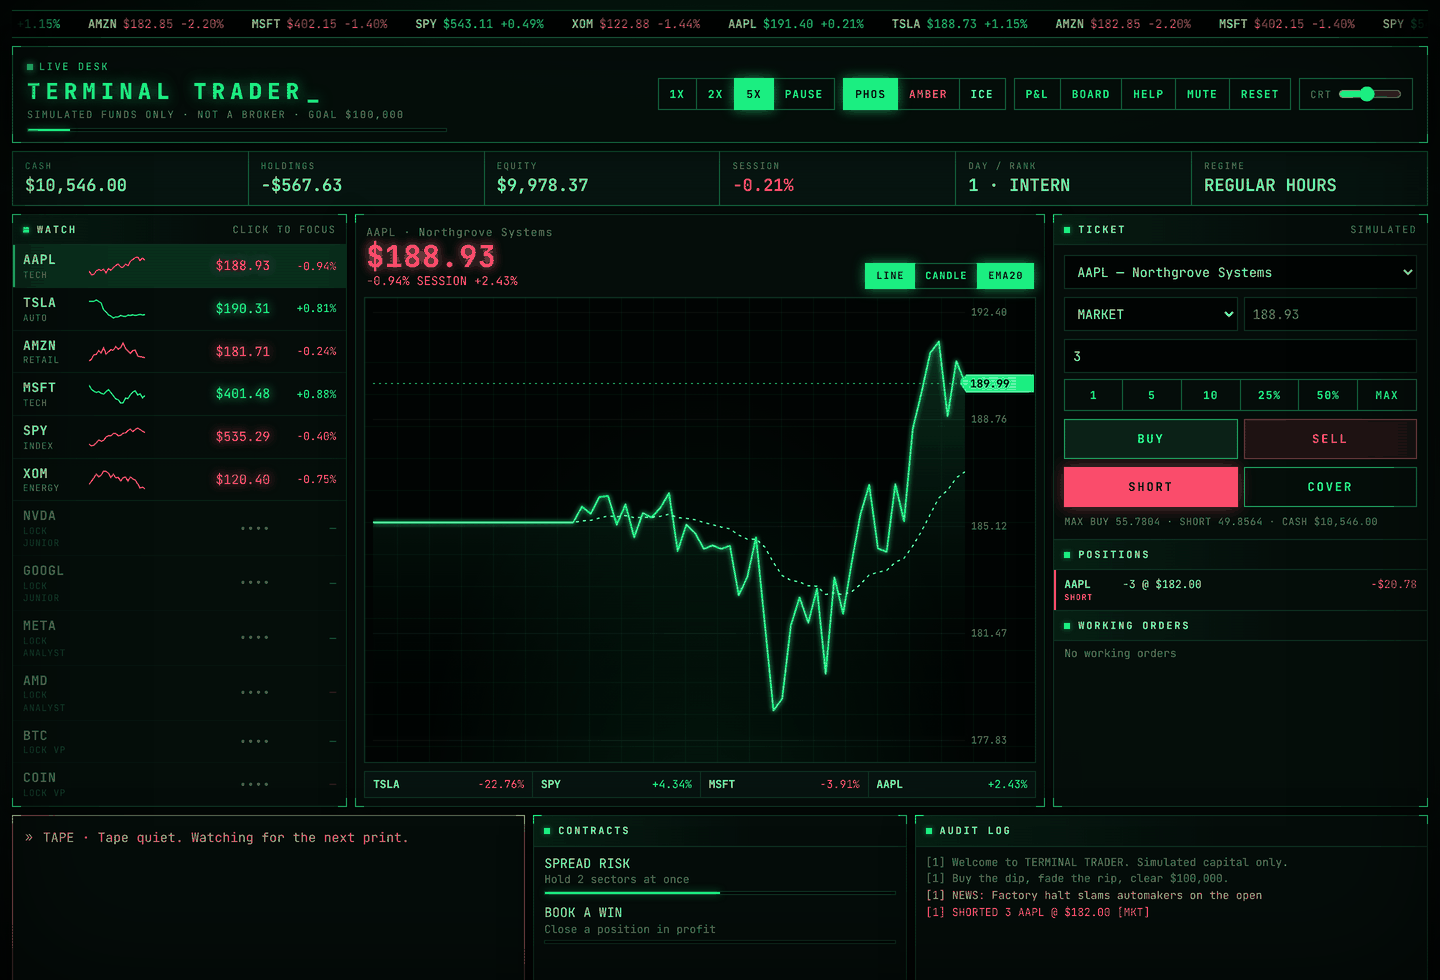
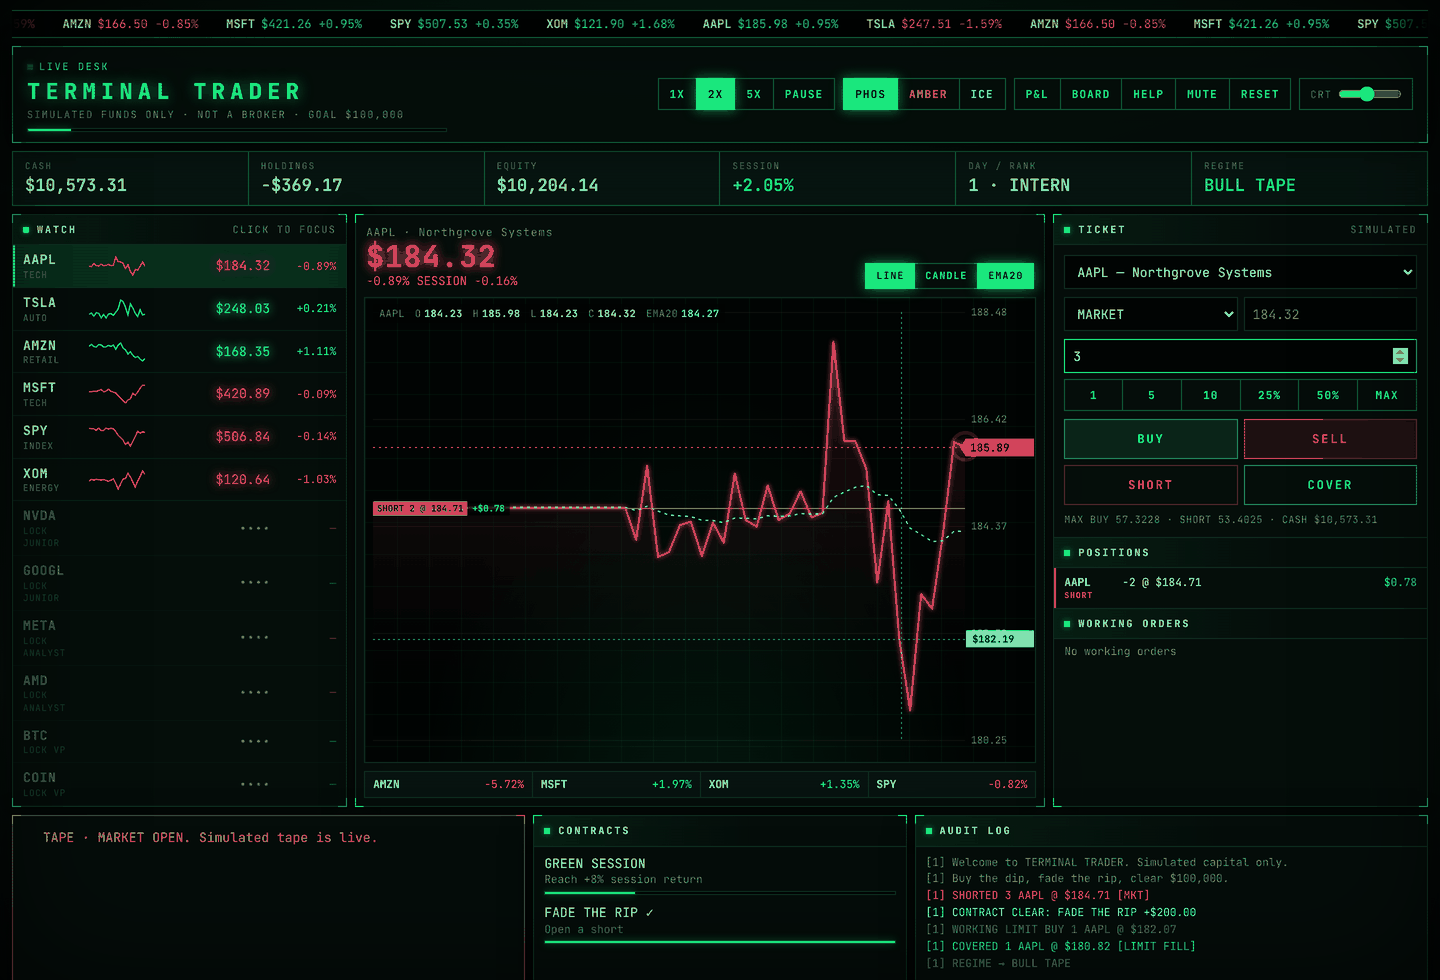
Ground the desk in shipped trading UIs: pinned trade bar, entry lines
Design recon across Mobbin (8 mobile brokers, 5 web terminals):
- Phone pins BUY / SELL / SHORT / COVER to the bottom with a
  symbol, qty, order type and live P&L line; same buttons, same ids
- Chart draws the open position's entry line with live P&L and a
  dashed line per working order; off-range levels pin to the edge
- O/H/L/C + EMA20 readout top-left; crosshair tag on the price axis
- Skipped edge-to-edge phone chart and Buy/Sell tabs (see HANDOFF)

Claude-Session: https://claude.ai/code/session_01RA62598oLhq1RE84UV7Pot

diff --git a/src/ui.js b/src/ui.js
@@ -299,6 +299,8 @@
       ctx.font = '11px ui-monospace, monospace';
       ctx.fillText(stock.unlocked ? 'WAITING FOR PRINTS…' : 'SYMBOL LOCKED', 16, 28);
       dot.style.display = 'none';
+      $('chartLegend').innerHTML = '';
+      view.legend = '';
       view.settled = true;
       chartDirty = false;
       return;
@@ -452,6 +454,59 @@
     }
     ctx.restore();
 
+    // Entry + working-order lines: price under your short's line reads as winning at a glance.
+    const levels = [];
+    if (stock.holding && stock.avg) {
+      const pnl = stock.unrealizedCents / 100;
+      levels.push({
+        price: stock.avg,
+        color: style.getPropertyValue('--amber').trim() || '#ffc14a',
+        label: (stock.side === 'short' ? 'SHORT ' : 'LONG ') + String(Math.abs(stock.holding)) + ' @ ' + stock.avg.toFixed(2),
+        tail: (pnl >= 0 ? '+' : '') + money(pnl),
+        tailColor: pnl >= 0 ? up : down
+      });
+    }
+    state.orders.forEach((o) => {
+      if (o.symbol !== stock.symbol) return;
+      levels.push({
+        price: o.price,
+        color: o.side === 'buy' ? up : down,
+        label: o.type.toUpperCase() + ' ' + o.side.toUpperCase() + ' ' + o.qty,
+        dash: [6, 3]
+      });
+    });
+    levels.forEach((lv) => {
+      const raw = yOf(lv.price);
+      const off = raw < pad.t ? -1 : raw > h - pad.b ? 1 : 0;
+      const y = Math.round(clamp(raw, pad.t + 8, h - pad.b - 8)) + 0.5;
+      ctx.strokeStyle = lv.color;
+      ctx.globalAlpha = off ? 0.35 : 0.85;
+      ctx.setLineDash(lv.dash || [1, 0]);
+      ctx.lineWidth = 1;
+      if (!off) {
+        ctx.beginPath();
+        ctx.moveTo(pad.l, y);
+        ctx.lineTo(w - pad.r, y);
+        ctx.stroke();
+      }
+      ctx.setLineDash([]);
+      ctx.globalAlpha = 1;
+      ctx.font = '700 9px ' + font;
+      const text = (off < 0 ? '▲ ' : off > 0 ? '▼ ' : '') + lv.label;
+      const tw = ctx.measureText(text).width;
+      const tailW = lv.tail ? ctx.measureText(lv.tail).width + 10 : 0;
+      ctx.fillStyle = lv.color;
+      ctx.fillRect(pad.l, y - 7, tw + 8, 14);
+      ctx.fillStyle = style.getPropertyValue('--bg').trim() || '#04110b';
+      ctx.fillText(text, pad.l + 4, y + 3);
+      if (lv.tail) {
+        ctx.fillStyle = 'rgba(0,0,0,0.75)';
+        ctx.fillRect(pad.l + tw + 8, y - 7, tailW, 14);
+        ctx.fillStyle = lv.tailColor;
+        ctx.fillText(lv.tail, pad.l + tw + 13, y + 3);
+      }
+    });
+
     const shownPx = candleMode ? last : shownLast;
     const ly = Math.round(yOf(shownPx)) + 0.5;
     ctx.setLineDash([2, 4]);
@@ -473,6 +528,19 @@
     ctx.fillStyle = style.getPropertyValue('--bg').trim() || '#04110b';
     ctx.font = '700 11px ' + font;
     ctx.fillText(shownPx.toFixed(2), w - pad.r + 5, ly + 4);
+
+    const lc = stock.liveCandle;
+    const emaLast = stock.ema && stock.ema.length ? stock.ema[stock.ema.length - 1] : null;
+    const legend =
+      '<span>' + stock.symbol + '</span>' +
+      (lc
+        ? '<span>O<b>' + lc.o.toFixed(2) + '</b></span><span>H<b>' + lc.h.toFixed(2) + '</b></span><span>L<b>' + lc.l.toFixed(2) + '</b></span><span>C<b>' + lc.c.toFixed(2) + '</b></span>'
+        : '') +
+      (showEma && emaLast != null ? '<span class="ema">EMA20<b>' + emaLast.toFixed(2) + '</b></span>' : '');
+    if (view.legend !== legend) {
+      $('chartLegend').innerHTML = legend;
+      view.legend = legend;
+    }
 
     if (!candleMode) {
       dot.style.display = 'block';
@@ -500,7 +568,8 @@
         ctx.setLineDash([]);
         ctx.globalAlpha = 1;
         tag.style.display = 'block';
-        tag.style.left = Math.min(x + 8, w - pad.r - 80) + 'px';
+        tag.style.left = w - pad.r + 1 + 'px';
+        tag.style.width = pad.r - 2 + 'px';
         tag.style.top = yOf(px) + 'px';
         tag.textContent = money(px);
       }
@@ -693,6 +762,9 @@
     $('sellBtn').disabled = !s.unlocked || closed || (maxSell <= 0 && maxShort <= 0);
     $('shortBtn').disabled = !s.unlocked || closed || maxShort <= 0 || (pos && pos.qty > 0);
     $('coverBtn').disabled = !s.unlocked || closed || maxCover + 1e-9 < (qty > 0 ? Math.min(qty, maxCover) : 0.0001) || maxCover <= 0;
+    $('barMeta').innerHTML = s.unlocked
+      ? '<span><b>' + s.symbol + '</b> ' + money(s.price) + '</span><span>QTY <b>' + (qty || 0) + '</b> · ' + $('orderType').value.toUpperCase() + (pos ? ' · <b class="' + clsDelta(pos.unrealizedCents) + '">' + money(pos.unrealizedCents / 100) + '</b>' : '') + '</span>'
+      : '<span>' + s.symbol + ' LOCKED</span>';
     const needLimit = $('orderType').value !== 'market';
     $('limitPx').disabled = !needLimit;
     if (!needLimit) $('limitPx').value = s.price.toFixed(2);
@@ -703,7 +775,7 @@
       if (ev.type === 'fill') {
         if (ev.side === 'buy') audio.buy();
         else audio.sell();
-        const rect = $('ticket').getBoundingClientRect();
+        const rect = $('tradeBar').getBoundingClientRect();
         burst(rect.left + rect.width / 2, rect.top + 20, ev.side === 'buy' || (ev.side === 'sell' && ev.price));
         const label = ev.openedShort
           ? 'FILL SHORT '

diff --git a/css/desk.css b/css/desk.css
@@ -508,6 +508,25 @@ body.is-paused .live i { animation: none; opacity: 0.35; }
 
 #chart { position: absolute; inset: 0; width: 100%; height: 100%; display: block; }
 
+.chart-legend {
+  position: absolute;
+  top: 6px;
+  left: 8px;
+  z-index: 1;
+  display: flex;
+  flex-wrap: wrap;
+  gap: 2px 10px;
+  max-width: calc(100% - 90px);
+  padding: 3px 6px;
+  font-size: 10px;
+  letter-spacing: 0.04em;
+  color: var(--muted);
+  background: color-mix(in srgb, var(--well) 78%, transparent);
+  pointer-events: none;
+}
+.chart-legend b { color: var(--text); font-weight: 600; margin-left: 3px; }
+.chart-legend .ema b { color: var(--cyan); }
+
 .last-dot {
   position: absolute;
   left: 0;
@@ -594,6 +613,8 @@ body.is-paused .last-dot::after { animation: none; opacity: 0; }
 .qty-row input { grid-column: 1 / -1; margin-bottom: 6px; }
 .qty-row button { padding: 0 4px; }
 .qty-row button + button { margin-left: -1px; }
+.trade-bar { display: flex; flex-direction: column; gap: 6px; }
+.bar-meta { display: none; }
 .side-row > button { flex: 1 1 40%; min-height: 40px; font-size: 12px; letter-spacing: 0.16em; }
 
 .buy-btn, .cover-btn { border-color: color-mix(in srgb, var(--up) 60%, transparent) !important; color: var(--up) !important; }
@@ -900,6 +921,39 @@ button:disabled { opacity: 0.35; cursor: not-allowed; }
   .mover { min-width: 76px; }
 
   .ticket { padding: 8px; }
+  /* every mobile broker pins the trade actions; all four stay, shorting is the game */
+  .desk { padding-bottom: calc(96px + env(safe-area-inset-bottom)); }
+  .trade-bar {
+    position: fixed;
+    left: 0;
+    right: 0;
+    bottom: 0;
+    z-index: 35;
+    display: grid;
+    grid-template-columns: repeat(4, 1fr);
+    gap: 6px;
+    padding: 6px 8px calc(8px + env(safe-area-inset-bottom));
+    background: var(--panel-2);
+    border-top: 1px solid var(--edge);
+    box-shadow: 0 -10px 24px rgba(0, 0, 0, 0.55);
+    -webkit-backdrop-filter: blur(6px);
+            backdrop-filter: blur(6px);
+  }
+  .trade-bar .side-row { display: contents; }
+  .trade-bar .side-row > button { min-height: 46px; padding: 0; font-size: 11px; letter-spacing: 0.1em; }
+  .bar-meta {
+    display: flex;
+    justify-content: space-between;
+    gap: 8px;
+    grid-column: 1 / -1;
+    font-size: 10px;
+    letter-spacing: 0.08em;
+    color: var(--muted);
+    white-space: nowrap;
+    overflow: hidden;
+  }
+  .bar-meta b { color: var(--text); font-weight: 600; }
+  .chart-legend { font-size: 9px; gap: 0 8px; }
   /* 16px stops iOS from zooming into the inputs */
   .ticket select, .ticket input { font-size: 16px; min-height: 40px; }
   .qty-row button { min-height: 38px; }

diff --git a/index.html b/index.html
@@ -80,6 +80,7 @@
       </div>
       <div id="chart-wrap">
         <canvas id="chart"></canvas>
+        <div class="chart-legend" id="chartLegend"></div>
         <i class="last-dot" id="lastDot"></i>
         <div class="crosshair" id="crosshair"></div>
       </div>
@@ -107,13 +108,16 @@
           <button data-qty="0.5">50%</button>
           <button data-qty="max">MAX</button>
         </div>
-        <div class="side-row">
-          <button class="buy-btn" id="buyBtn">BUY</button>
-          <button class="sell-btn" id="sellBtn">SELL</button>
-        </div>
-        <div class="side-row">
-          <button class="short-btn" id="shortBtn">SHORT</button>
-          <button class="cover-btn" id="coverBtn">COVER</button>
+        <div class="trade-bar" id="tradeBar">
+          <div class="bar-meta" id="barMeta"></div>
+          <div class="side-row">
+            <button class="buy-btn" id="buyBtn">BUY</button>
+            <button class="sell-btn" id="sellBtn">SELL</button>
+          </div>
+          <div class="side-row">
+            <button class="short-btn" id="shortBtn">SHORT</button>
+            <button class="cover-btn" id="coverBtn">COVER</button>
+          </div>
         </div>
         <div class="hint" id="maxBuy">MAX 0</div>
       </div>

diff --git a/tests/html.test.js b/tests/html.test.js
@@ -58,6 +58,11 @@ test('desk polish: phone layout, reduced motion, and eased chart stay wired', ()
   const ui = fs.readFileSync(path.join(root, 'src/ui.js'), 'utf8');
   assert.match(html, /name="viewport"[^>]*width=device-width/);
   assert.match(html, /id="lastDot"/);
+  assert.match(html, /id="tradeBar"[\s\S]*id="buyBtn"[\s\S]*id="shortBtn"[\s\S]*id="coverBtn"/);
+  assert.match(html, /id="chartLegend"/);
+  assert.match(css, /\.trade-bar \{\s*position: fixed;/);
+  assert.match(ui, /stock\.avg/);
+  assert.match(ui, /state\.orders\.forEach/);
   assert.match(css, /@media \(max-width: 640px\)/);
   assert.match(css, /prefers-reduced-motion: reduce/);
   assert.match(css, /@media \(hover: hover\)/);

diff --git a/docs/HANDOFF.md b/docs/HANDOFF.md
@@ -8,6 +8,11 @@ Still **2D**. No deploy. No engine changes; shorting, EMA20 and the session P&L 
 - **Smooth chart motion** — each new print glides in over most of the tick interval (the line slides one slot left as the ring buffer rolls), the y-range widens fast and tightens slowly so prints never leave the frame, and a pulsing DOM dot marks the last price. Redraws only while a glide or range ease is in flight (`noteTick` / `chartAnimating` in `src/ui.js`). Respects `prefers-reduced-motion`.
 - **Phone layout** — at ≤640px the controls become one swipeable strip, stats go 3×2, chart then ticket come before the watch list, 16px inputs (no iOS zoom), larger tap targets, toasts drop from the top, hover styles gated behind `(hover: hover)`.
 - **Fixes** — `.news` panel styles leaked onto `.log-entry.news` rows (indented, padded log lines); negative money rendered as `$-12.34` (now `-$12.34`); the FLAT placeholder wrapped inside the positions grid; watch flashes tinted whole rows at 5× (now a price-text pulse).
+- **Design-recon follow-up** (Mobbin research: Fidelity, Stake, Revolut, Wealthsimple, Vivid, Lightyear, Wealthfront, QuestMobile on iOS; Gemini, Binance, OKX, Coinbase, Kraken on web):
+  - Phone pins BUY / SELL / SHORT / COVER to the bottom with a symbol · qty · type · P&L line (every mobile broker sampled pins trade actions; we keep all four because shorting is core).
+  - Chart draws your entry line (LONG/SHORT qty @ avg with live P&L) and a dashed line per working order; off-range levels pin to the edge with ▲/▼. This covers the "trade markers" roadmap item.
+  - O/H/L/C + EMA20 readout top-left (all five web terminals); crosshair price tag sits on the right axis.
+  - Deliberately skipped: edge-to-edge phone chart (keeps the bracketed frame) and Buy/Sell tabs (an extra tap per trade, and it fights B/S/H/C keys).
 - Screenshots in `docs/screenshots/`.
 
 ## Previous pass (overnight pass on 2.1)
